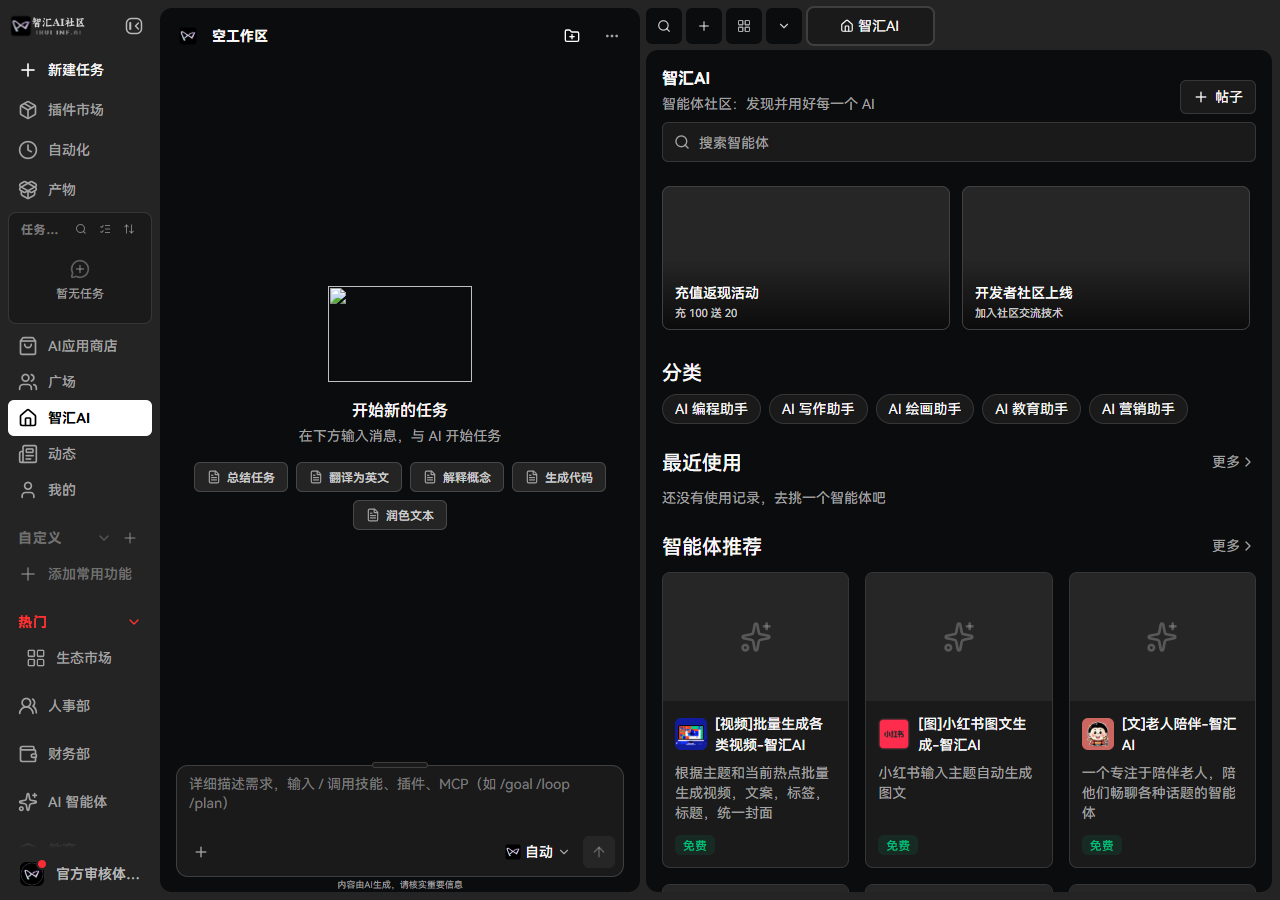
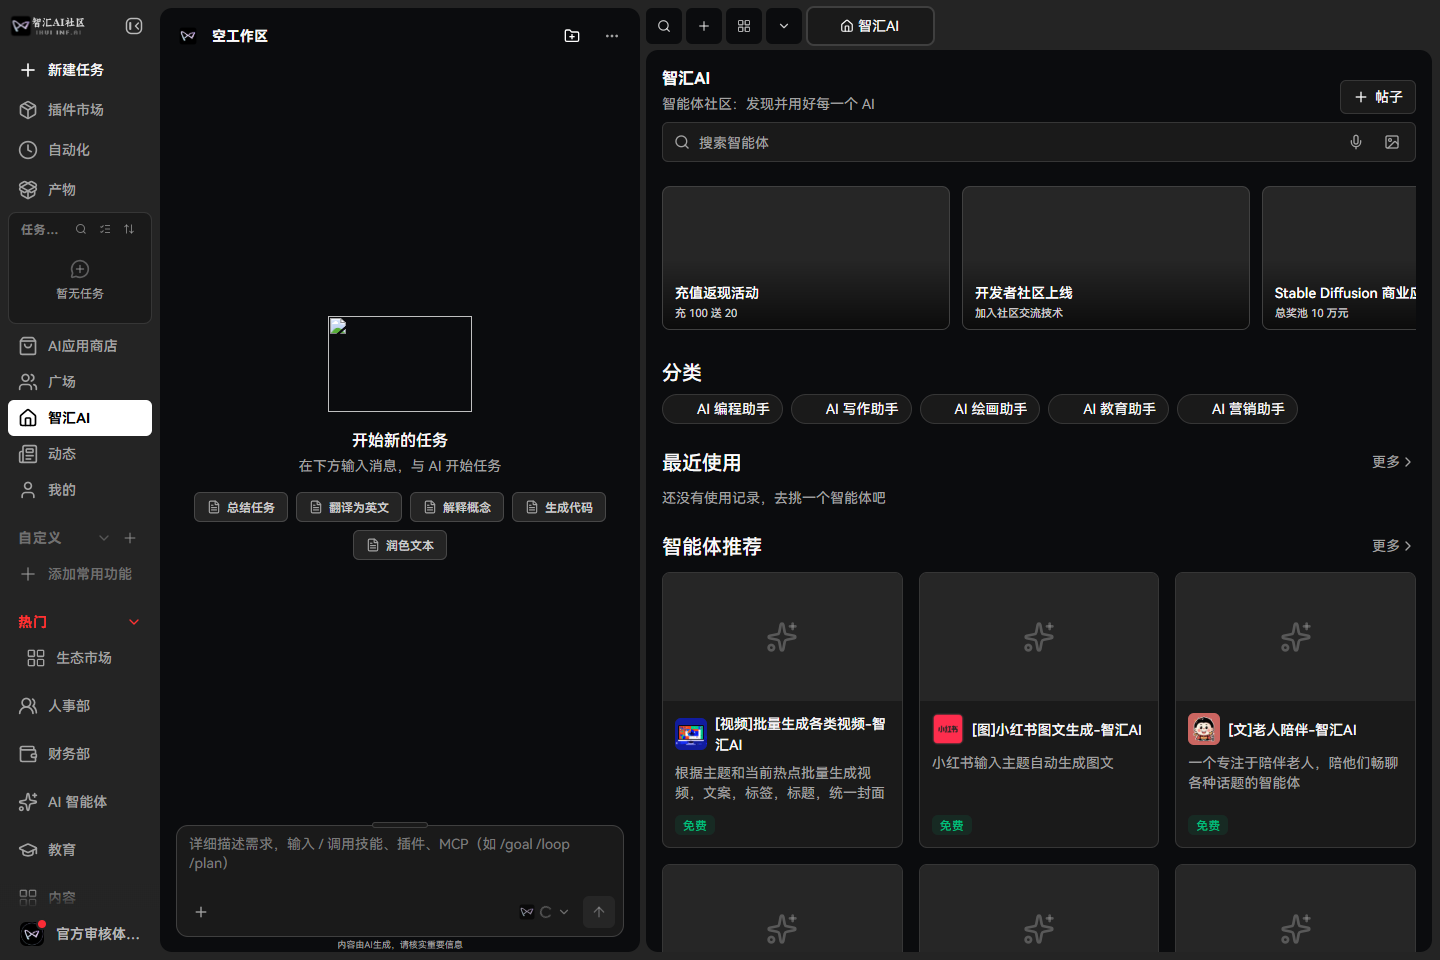
feat(web): 社区页补齐分类图标与语音/图搜入口(对齐小程序 InputArea)
分类胶囊读 Category.icon(16x16,空值退回纯文字);搜索框右侧麦克风/图片按钮点击 toast 同句「请在完整版使用」,与小程序端一致;五语言补 voiceHint/imageHint;审计 §15 判定更新为 7 对齐 + 5 有意不做,§14 补 Phase 1 复核修正(补表不可执行、7 缺位值已在册)。

验证: 8891 实测 light/dark 双档 pills=5/icons=5/voice=true/image=true、dark 白卡 0、pageerror 0、toast 文案命中;eslint 0。

diff --git a/apps/web/app/(main)/community/PageClient.tsx b/apps/web/app/(main)/community/PageClient.tsx
@@ -9,7 +9,8 @@ import Link from 'next/link'
 import Image from 'next/image'
 import { useQuery } from '@tanstack/react-query'
 import { useTranslations } from 'next-intl'
-import { Bot, ChevronRight, Clock3, Loader2, Plus, Search } from 'lucide-react'
+import { Bot, ChevronRight, Clock3, ImageIcon, Loader2, Mic, Plus, Search } from 'lucide-react'
+import { toast } from 'sonner'
 
 import { AgentGrid } from '../agents/AgentGrid'
 import { fetchAgents, fetchCategories } from '../agents/helpers'
@@ -136,15 +137,37 @@ export default function CommunityPageClient() {
             {t('posts')}
           </Link>
         </div>
-        <label className="relative block">
+        {/* 对齐小程序 pages/community 的 InputArea:右侧两个入口只提示「完整版使用」,
+            不假装可点(小程序端同一句提示,web 端不另造交互) */}
+        <div className="relative block">
           <Search className="pointer-events-none absolute left-3 top-1/2 h-4 w-4 -translate-y-1/2 text-muted-foreground" />
           <input
             value={keyword}
             onChange={(e) => setKeyword(e.target.value)}
             placeholder={t('searchPlaceholder')}
-            className="ui-control h-10 w-full rounded-md border border-border bg-card pl-9 pr-3 text-body text-foreground placeholder:text-muted-foreground focus-visible:outline-none focus-visible:ring-2 focus-visible:ring-ring"
+            className="ui-control h-10 w-full rounded-md border border-border bg-card pl-9 pr-24 text-body text-foreground placeholder:text-muted-foreground focus-visible:outline-none focus-visible:ring-2 focus-visible:ring-ring"
           />
-        </label>
+          <span className="absolute right-2 top-1/2 flex -translate-y-1/2 items-center gap-1">
+            <button
+              type="button"
+              onClick={() => toast.info(t('voiceHint'))}
+              title={t('voiceHint')}
+              aria-label={t('voiceHint')}
+              className="flex h-8 w-8 items-center justify-center rounded-md text-muted-foreground transition-colors hover:bg-secondary hover:text-foreground"
+            >
+              <Mic className="h-4 w-4" />
+            </button>
+            <button
+              type="button"
+              onClick={() => toast.info(t('imageHint'))}
+              title={t('imageHint')}
+              aria-label={t('imageHint')}
+              className="flex h-8 w-8 items-center justify-center rounded-md text-muted-foreground transition-colors hover:bg-secondary hover:text-foreground"
+            >
+              <ImageIcon className="h-4 w-4" />
+            </button>
+          </span>
+        </div>
       </header>
 
       {banners.length > 0 ? (
@@ -195,8 +218,19 @@ export default function CommunityPageClient() {
               <Link
                 key={c.categoryId}
                 href={`/agents/categories/${c.categoryId}`}
-                className="rounded-full border border-border bg-card px-3 py-1 text-body text-foreground transition-colors hover:bg-secondary/60"
+                className="inline-flex items-center gap-1.5 rounded-full border border-border bg-card px-3 py-1 text-body text-foreground transition-colors hover:bg-secondary/60"
               >
+                {/* 小程序分类胶囊带 fenlei_icon 图标;接口 Category.icon 有值就同屏显示,空值退回纯文字 */}
+                {c.icon ? (
+                  <Image
+                    src={c.icon}
+                    alt=""
+                    width={16}
+                    height={16}
+                    unoptimized
+                    className="h-4 w-4 shrink-0 rounded-sm object-cover"
+                  />
+                ) : null}
                 {c.name}
               </Link>
             ))}
